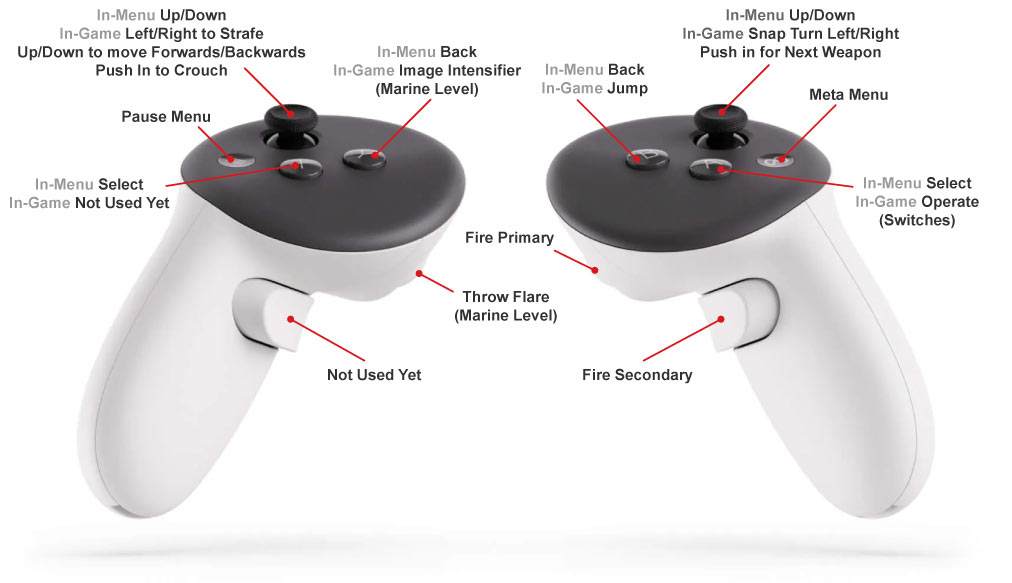
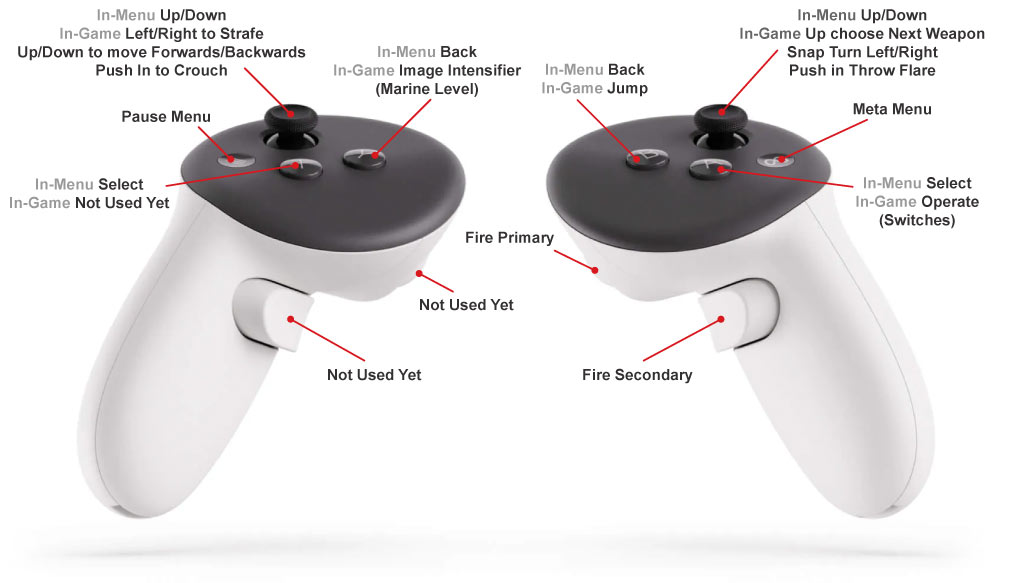
Update controller image. Add rumble to controllers.

diff --git a/source/src/main.c b/source/src/main.c
@@ -295,6 +295,7 @@ static PFN_xrGetActionStateVector2f pfn_xrGetActionStateVector2f = NULL;
 static PFN_xrGetActionStateBoolean pfn_xrGetActionStateBoolean = NULL;
 static PFN_xrCreateActionSpace pfn_xrCreateActionSpace = NULL;
 static PFN_xrLocateSpace pfn_xrLocateSpace = NULL;
+static PFN_xrApplyHapticFeedback pfn_xrApplyHapticFeedback = NULL;
 /* GLES path — instance/session creation, swapchain management */
 static PFN_xrCreateInstance pfn_xrCreateInstance = NULL;
 static PFN_xrCreateSession  pfn_xrCreateSession  = NULL;
@@ -332,6 +333,8 @@ static XrAction xr_right_thumbstick_click_action       = XR_NULL_HANDLE; /* righ
 static XrAction xr_left_trigger_action                 = XR_NULL_HANDLE; /* left trigger — throw flare */
 static XrAction xr_left_grip_action  = XR_NULL_HANDLE;
 static XrAction xr_right_grip_action = XR_NULL_HANDLE;
+static XrAction xr_right_haptic_action = XR_NULL_HANDLE; /* right controller vibration output */
+static XrAction xr_left_haptic_action  = XR_NULL_HANDLE; /* left controller vibration output */
 static XrSpace  xr_left_grip_space   = XR_NULL_HANDLE;
 static XrSpace  xr_right_grip_space  = XR_NULL_HANDLE;
 
@@ -560,6 +563,7 @@ static bool load_xr_functions(void)
     XR_LOAD(xrGetActionStateBoolean);
     XR_LOAD(xrCreateActionSpace);
     XR_LOAD(xrLocateSpace);
+    XR_LOAD(xrApplyHapticFeedback);
     XR_LOAD(xrGetSystem);
     XR_LOAD(xrCreateSession);
     XR_LOAD(xrCreateSwapchain);
@@ -881,9 +885,20 @@ static bool init_xr_session(void)
         result = pfn_xrCreateAction(xr_input_action_set, &act_info, &xr_right_grip_action);
         XR_CHECK(result, "Failed to create right_grip action");
 
+        act_info.actionType = XR_ACTION_TYPE_VIBRATION_OUTPUT;
+        SDL_strlcpy(act_info.actionName,       "right_haptic", XR_MAX_ACTION_NAME_SIZE);
+        SDL_strlcpy(act_info.localizedActionName, "Right Haptic", XR_MAX_LOCALIZED_ACTION_NAME_SIZE);
+        result = pfn_xrCreateAction(xr_input_action_set, &act_info, &xr_right_haptic_action);
+        XR_CHECK(result, "Failed to create right_haptic action");
+
+        SDL_strlcpy(act_info.actionName,       "left_haptic", XR_MAX_ACTION_NAME_SIZE);
+        SDL_strlcpy(act_info.localizedActionName, "Left Haptic", XR_MAX_LOCALIZED_ACTION_NAME_SIZE);
+        result = pfn_xrCreateAction(xr_input_action_set, &act_info, &xr_left_haptic_action);
+        XR_CHECK(result, "Failed to create left_haptic action");
+
         /* Suggest bindings for Touch controller profile */
         XrPath profile_path, left_stick_path, right_stick_path, x_path, y_path, menu_path;
-        XrPath left_grip_path, right_grip_path, right_trigger_path, right_squeeze_path, a_path, left_stick_click_path, b_path, right_stick_click_path, left_trigger_path;
+        XrPath left_grip_path, right_grip_path, right_trigger_path, right_squeeze_path, a_path, left_stick_click_path, b_path, right_stick_click_path, left_trigger_path, right_haptic_path, left_haptic_path;
         pfn_xrStringToPath(xr_instance, "/interaction_profiles/oculus/touch_controller", &profile_path);
         pfn_xrStringToPath(xr_instance, "/user/hand/left/input/thumbstick",        &left_stick_path);
         pfn_xrStringToPath(xr_instance, "/user/hand/right/input/thumbstick",       &right_stick_path);
@@ -899,8 +914,10 @@ static bool init_xr_session(void)
         pfn_xrStringToPath(xr_instance, "/user/hand/right/input/b/click",           &b_path);
         pfn_xrStringToPath(xr_instance, "/user/hand/right/input/thumbstick/click", &right_stick_click_path);
         pfn_xrStringToPath(xr_instance, "/user/hand/left/input/trigger",           &left_trigger_path);
+        pfn_xrStringToPath(xr_instance, "/user/hand/right/output/haptic",          &right_haptic_path);
+        pfn_xrStringToPath(xr_instance, "/user/hand/left/output/haptic",           &left_haptic_path);
 
-        XrActionSuggestedBinding bindings[14];
+        XrActionSuggestedBinding bindings[16];
         bindings[0].action  = xr_left_stick_action;              bindings[0].binding  = left_stick_path;
         bindings[1].action  = xr_right_stick_action;             bindings[1].binding  = right_stick_path;
         bindings[2].action  = xr_x_button_action;                bindings[2].binding  = x_path;
@@ -914,10 +931,12 @@ static bool init_xr_session(void)
         bindings[10].action = xr_left_thumbstick_click_action;   bindings[10].binding = left_stick_click_path;
         bindings[11].action = xr_b_button_action;                bindings[11].binding = b_path;
         bindings[12].action = xr_right_thumbstick_click_action;  bindings[12].binding = right_stick_click_path;
-        bindings[13].action = xr_left_trigger_action;             bindings[13].binding = left_trigger_path;
+        bindings[13].action = xr_left_trigger_action;            bindings[13].binding = left_trigger_path;
+        bindings[14].action = xr_right_haptic_action;            bindings[14].binding = right_haptic_path;
+        bindings[15].action = xr_left_haptic_action;             bindings[15].binding = left_haptic_path;
         XrInteractionProfileSuggestedBinding suggested = { XR_TYPE_INTERACTION_PROFILE_SUGGESTED_BINDING };
         suggested.interactionProfile     = profile_path;
-        suggested.countSuggestedBindings = 14;
+        suggested.countSuggestedBindings = 16;
         suggested.suggestedBindings      = bindings;
         pfn_xrSuggestInteractionProfileBindings(xr_instance, &suggested);
 
@@ -1589,9 +1608,10 @@ int axes, balls, hats;
         JoystickData.dwXpos = (DWORD)((xr_left_stick_x  * 32767.0f) + 32768.0f);
         JoystickData.dwYpos = (DWORD)((-xr_left_stick_y * 32767.0f) + 32768.0f);
 
-        /* Right stick: debounced 45° snap turns. */
+        /* Right stick: debounced 45° snap turns (X) + next weapon on stick up (Y). */
         if (xr_right_stick_action) {
             static bool xr_snap_armed = true;
+            static bool xr_next_weapon_armed = true;
             const float SNAP_THRESHOLD  = 0.6f;
             const float SNAP_REARM_ZONE = 0.3f;
             const int   SNAP_ANGLE      = 512; /* 45° in game units (4096 = full circle) */
@@ -1599,11 +1619,13 @@ int axes, balls, hats;
             XrActionStateGetInfo rget = { XR_TYPE_ACTION_STATE_GET_INFO };
             rget.action = xr_right_stick_action;
             XrActionStateVector2f rstate = { XR_TYPE_ACTION_STATE_VECTOR2F };
-            float rx = 0.0f;
+            float rx = 0.0f, ry = 0.0f;
             if (XR_SUCCEEDED(pfn_xrGetActionStateVector2f(xr_session, &rget, &rstate)) && rstate.isActive) {
                 rx = rstate.currentState.x;
+                ry = rstate.currentState.y;
             }
 
+            /* X axis: snap turns */
             if (xr_snap_armed) {
                 if (rx > SNAP_THRESHOLD) {
                     xr_snap_yaw = (xr_snap_yaw + SNAP_ANGLE) & 4095;
@@ -1614,6 +1636,17 @@ int axes, balls, hats;
                 }
             } else if (rx > -SNAP_REARM_ZONE && rx < SNAP_REARM_ZONE) {
                 xr_snap_armed = true;
+            }
+
+            /* Y axis: stick up → next weapon (gameplay only, edge-triggered). */
+            xr_right_thumbstick_click_pressed = 0;
+            if (!xr_2d_mode) {
+                if (xr_next_weapon_armed && ry > SNAP_THRESHOLD) {
+                    xr_right_thumbstick_click_pressed = 1;
+                    xr_next_weapon_armed = false;
+                } else if (ry < SNAP_REARM_ZONE) {
+                    xr_next_weapon_armed = true;
+                }
             }
         }
 
@@ -1672,10 +1705,10 @@ int axes, balls, hats;
                 xr_b_button_pressed = bstate.currentState ? 1 : 0;
         }
 
-        /* Right thumbstick click → next weapon (gameplay only, edge-triggered). */
+        /* Right thumbstick click → throw flare (gameplay only, edge-triggered). */
         {
             static int prev = 0;
-            xr_right_thumbstick_click_pressed = 0;
+            xr_left_trigger_pressed = 0;
             if (!xr_2d_mode && xr_right_thumbstick_click_action && pfn_xrGetActionStateBoolean) {
                 XrActionStateGetInfo rget = { XR_TYPE_ACTION_STATE_GET_INFO };
                 rget.action = xr_right_thumbstick_click_action;
@@ -1684,7 +1717,7 @@ int axes, balls, hats;
                         && rstate.isActive) {
                     int cur = rstate.currentState ? 1 : 0;
                     if (cur && !prev)
-                        xr_right_thumbstick_click_pressed = 1;
+                        xr_left_trigger_pressed = 1;
                     prev = cur;
                 }
             } else {
@@ -1703,25 +1736,7 @@ int axes, balls, hats;
                 xr_y_button_gameplay_pressed = ystate.currentState ? 1 : 0;
         }
 
-        /* Left trigger → throw flare (gameplay only, edge-triggered). */
-        {
-            static int prev = 0;
-            xr_left_trigger_pressed = 0;
-            if (!xr_2d_mode && xr_left_trigger_action && pfn_xrGetActionStateBoolean) {
-                XrActionStateGetInfo ltget = { XR_TYPE_ACTION_STATE_GET_INFO };
-                ltget.action = xr_left_trigger_action;
-                XrActionStateBoolean ltstate = { XR_TYPE_ACTION_STATE_BOOLEAN };
-                if (XR_SUCCEEDED(pfn_xrGetActionStateBoolean(xr_session, &ltget, &ltstate))
-                        && ltstate.isActive) {
-                    int cur = ltstate.currentState ? 1 : 0;
-                    if (cur && !prev)
-                        xr_left_trigger_pressed = 1;
-                    prev = cur;
-                }
-            } else {
-                prev = 0;
-            }
-        }
+        /* Left trigger: unbound (throw flare moved to right thumbstick click). */
 
         /* Left menu button → ESC in all modes (opens/closes pause menu in-game,
          * acts as back in the 2D menus). */
@@ -1912,6 +1927,42 @@ int axes, balls, hats;
                 break;
         }
     }
+}
+
+/* Trigger a vibration pulse on the right Touch controller.
+ * amplitude: 0.0–1.0. duration_ms: pulse length in milliseconds. */
+void XR_Haptic_Right(float amplitude, float duration_ms)
+{
+#ifdef __ANDROID__
+    if (!pfn_xrApplyHapticFeedback || !xr_session || !xr_right_haptic_action)
+        return;
+    XrHapticActionInfo info = { XR_TYPE_HAPTIC_ACTION_INFO };
+    info.action = xr_right_haptic_action;
+    XrHapticVibration vib = { XR_TYPE_HAPTIC_VIBRATION };
+    vib.duration  = (XrDuration)(duration_ms * 1000000.0f); /* ms → ns */
+    vib.frequency = XR_FREQUENCY_UNSPECIFIED;
+    vib.amplitude = amplitude;
+    pfn_xrApplyHapticFeedback(xr_session, &info, (XrHapticBaseHeader*)&vib);
+#else
+    (void)amplitude; (void)duration_ms;
+#endif
+}
+
+void XR_Haptic_Left(float amplitude, float duration_ms)
+{
+#ifdef __ANDROID__
+    if (!pfn_xrApplyHapticFeedback || !xr_session || !xr_left_haptic_action)
+        return;
+    XrHapticActionInfo info = { XR_TYPE_HAPTIC_ACTION_INFO };
+    info.action = xr_left_haptic_action;
+    XrHapticVibration vib = { XR_TYPE_HAPTIC_VIBRATION };
+    vib.duration  = (XrDuration)(duration_ms * 1000000.0f); /* ms → ns */
+    vib.frequency = XR_FREQUENCY_UNSPECIFIED;
+    vib.amplitude = amplitude;
+    pfn_xrApplyHapticFeedback(xr_session, &info, (XrHapticBaseHeader*)&vib);
+#else
+    (void)amplitude; (void)duration_ms;
+#endif
 }
 
 /* ** */

diff --git a/source/src/avp/avpview.c b/source/src/avp/avpview.c
@@ -36,6 +36,7 @@ extern int     xr_grip_left_valid;
 extern int     xr_grip_right_valid;
 extern int     xr_trigger_right_pressed;      /* 1 while right trigger is held */
 extern int     xr_grip_right_squeeze_pressed; /* 1 while right grip is squeezed */
+extern void    XR_Haptic_Right(float amplitude, float duration_ms);
 
 #endif
 
@@ -1487,14 +1488,40 @@ void AvpShowViewsVR(void)
         AVPGetInViewVolumeList(Global_VDB_Ptr);
         if (eye == 0) {
             /* Inject right-trigger primary fire before the weapon state machine reads it. */
-            if (xr_trigger_right_pressed) {
-                PLAYER_STATUS *ps = (PLAYER_STATUS *)Player->ObStrategyBlock->SBdataptr;
-                ps->Mvt_InputRequests.Flags.Rqst_FirePrimaryWeapon = 1;
+            {
+                extern int RealFrameTime;
+                static int haptic_ms_remaining = 0;
+                static int prev_trigger = 0;
+                if (xr_trigger_right_pressed) {
+                    PLAYER_STATUS *ps = (PLAYER_STATUS *)Player->ObStrategyBlock->SBdataptr;
+                    ps->Mvt_InputRequests.Flags.Rqst_FirePrimaryWeapon = 1;
+                    haptic_ms_remaining -= RealFrameTime;
+                    if (!prev_trigger || haptic_ms_remaining <= 0) {
+                        XR_Haptic_Right(0.7f, 80.0f);
+                        haptic_ms_remaining = 80;
+                    }
+                } else {
+                    haptic_ms_remaining = 0;
+                }
+                prev_trigger = xr_trigger_right_pressed;
             }
             /* Inject right-grip secondary fire. */
-            if (xr_grip_right_squeeze_pressed) {
-                PLAYER_STATUS *ps = (PLAYER_STATUS *)Player->ObStrategyBlock->SBdataptr;
-                ps->Mvt_InputRequests.Flags.Rqst_FireSecondaryWeapon = 1;
+            {
+                extern int RealFrameTime;
+                static int sec_haptic_ms_remaining = 0;
+                static int prev_squeeze = 0;
+                if (xr_grip_right_squeeze_pressed) {
+                    PLAYER_STATUS *ps = (PLAYER_STATUS *)Player->ObStrategyBlock->SBdataptr;
+                    ps->Mvt_InputRequests.Flags.Rqst_FireSecondaryWeapon = 1;
+                    sec_haptic_ms_remaining -= RealFrameTime;
+                    if (!prev_squeeze || sec_haptic_ms_remaining <= 0) {
+                        XR_Haptic_Right(0.5f, 80.0f);
+                        sec_haptic_ms_remaining = 80;
+                    }
+                } else {
+                    sec_haptic_ms_remaining = 0;
+                }
+                prev_squeeze = xr_grip_right_squeeze_pressed;
             }
             /* VR aiming: set GunMuzzleSightX/Y from the physical controller aim direction so
              * CalculateWhereGunIsPointing (called inside UpdateWeaponStateMachine) derives the

diff --git a/source/src/avp/hud.c b/source/src/avp/hud.c
@@ -624,6 +624,16 @@ static void DoMotionTracker(void)
 			if (MTSoundHandle==SOUND_NOACTIVEINDEX)
 			{
 				int panicFactor = MUL_FIXED(nearestDistance,MOTIONTRACKER_SCALE);
+				#ifdef __ANDROID__
+				{
+					extern void XR_Haptic_Left(float amplitude, float duration_ms);
+					float hapticAmp;
+					if (panicFactor < 21845)        hapticAmp = 0.9f;
+					else if (panicFactor < 21845*2) hapticAmp = 0.6f;
+					else                            hapticAmp = 0.3f;
+					XR_Haptic_Left(hapticAmp, 120.0f);
+				}
+				#endif
 				if (panicFactor < 21845)
 				{
 					Sound_Play(SID_TRACKER_WHEEP_HIGH,"ev",&MTSoundHandle,MOTIONTRACKERVOLUME);

diff --git a/source/src/avp/pmove.c b/source/src/avp/pmove.c
@@ -1734,6 +1734,9 @@ void ThrowAFlare(void)
 		extern int vr_right_hand_valid;
 		extern MATRIXCH vr_right_hand_mat;
 		extern VECTORCH vr_right_hand_world;
+		extern void XR_Haptic_Right(float amplitude, float duration_ms);
+		if (xr_left_trigger_pressed)
+			XR_Haptic_Right(0.6f, 100.0f);
 		if (xr_left_trigger_pressed && vr_right_hand_valid) {
 			/* In VR, throw in the direction the weapon controller is pointing.
 			 * vr_right_hand_mat is the raw grip-to-game matrix.  CreateGrenadeKernel